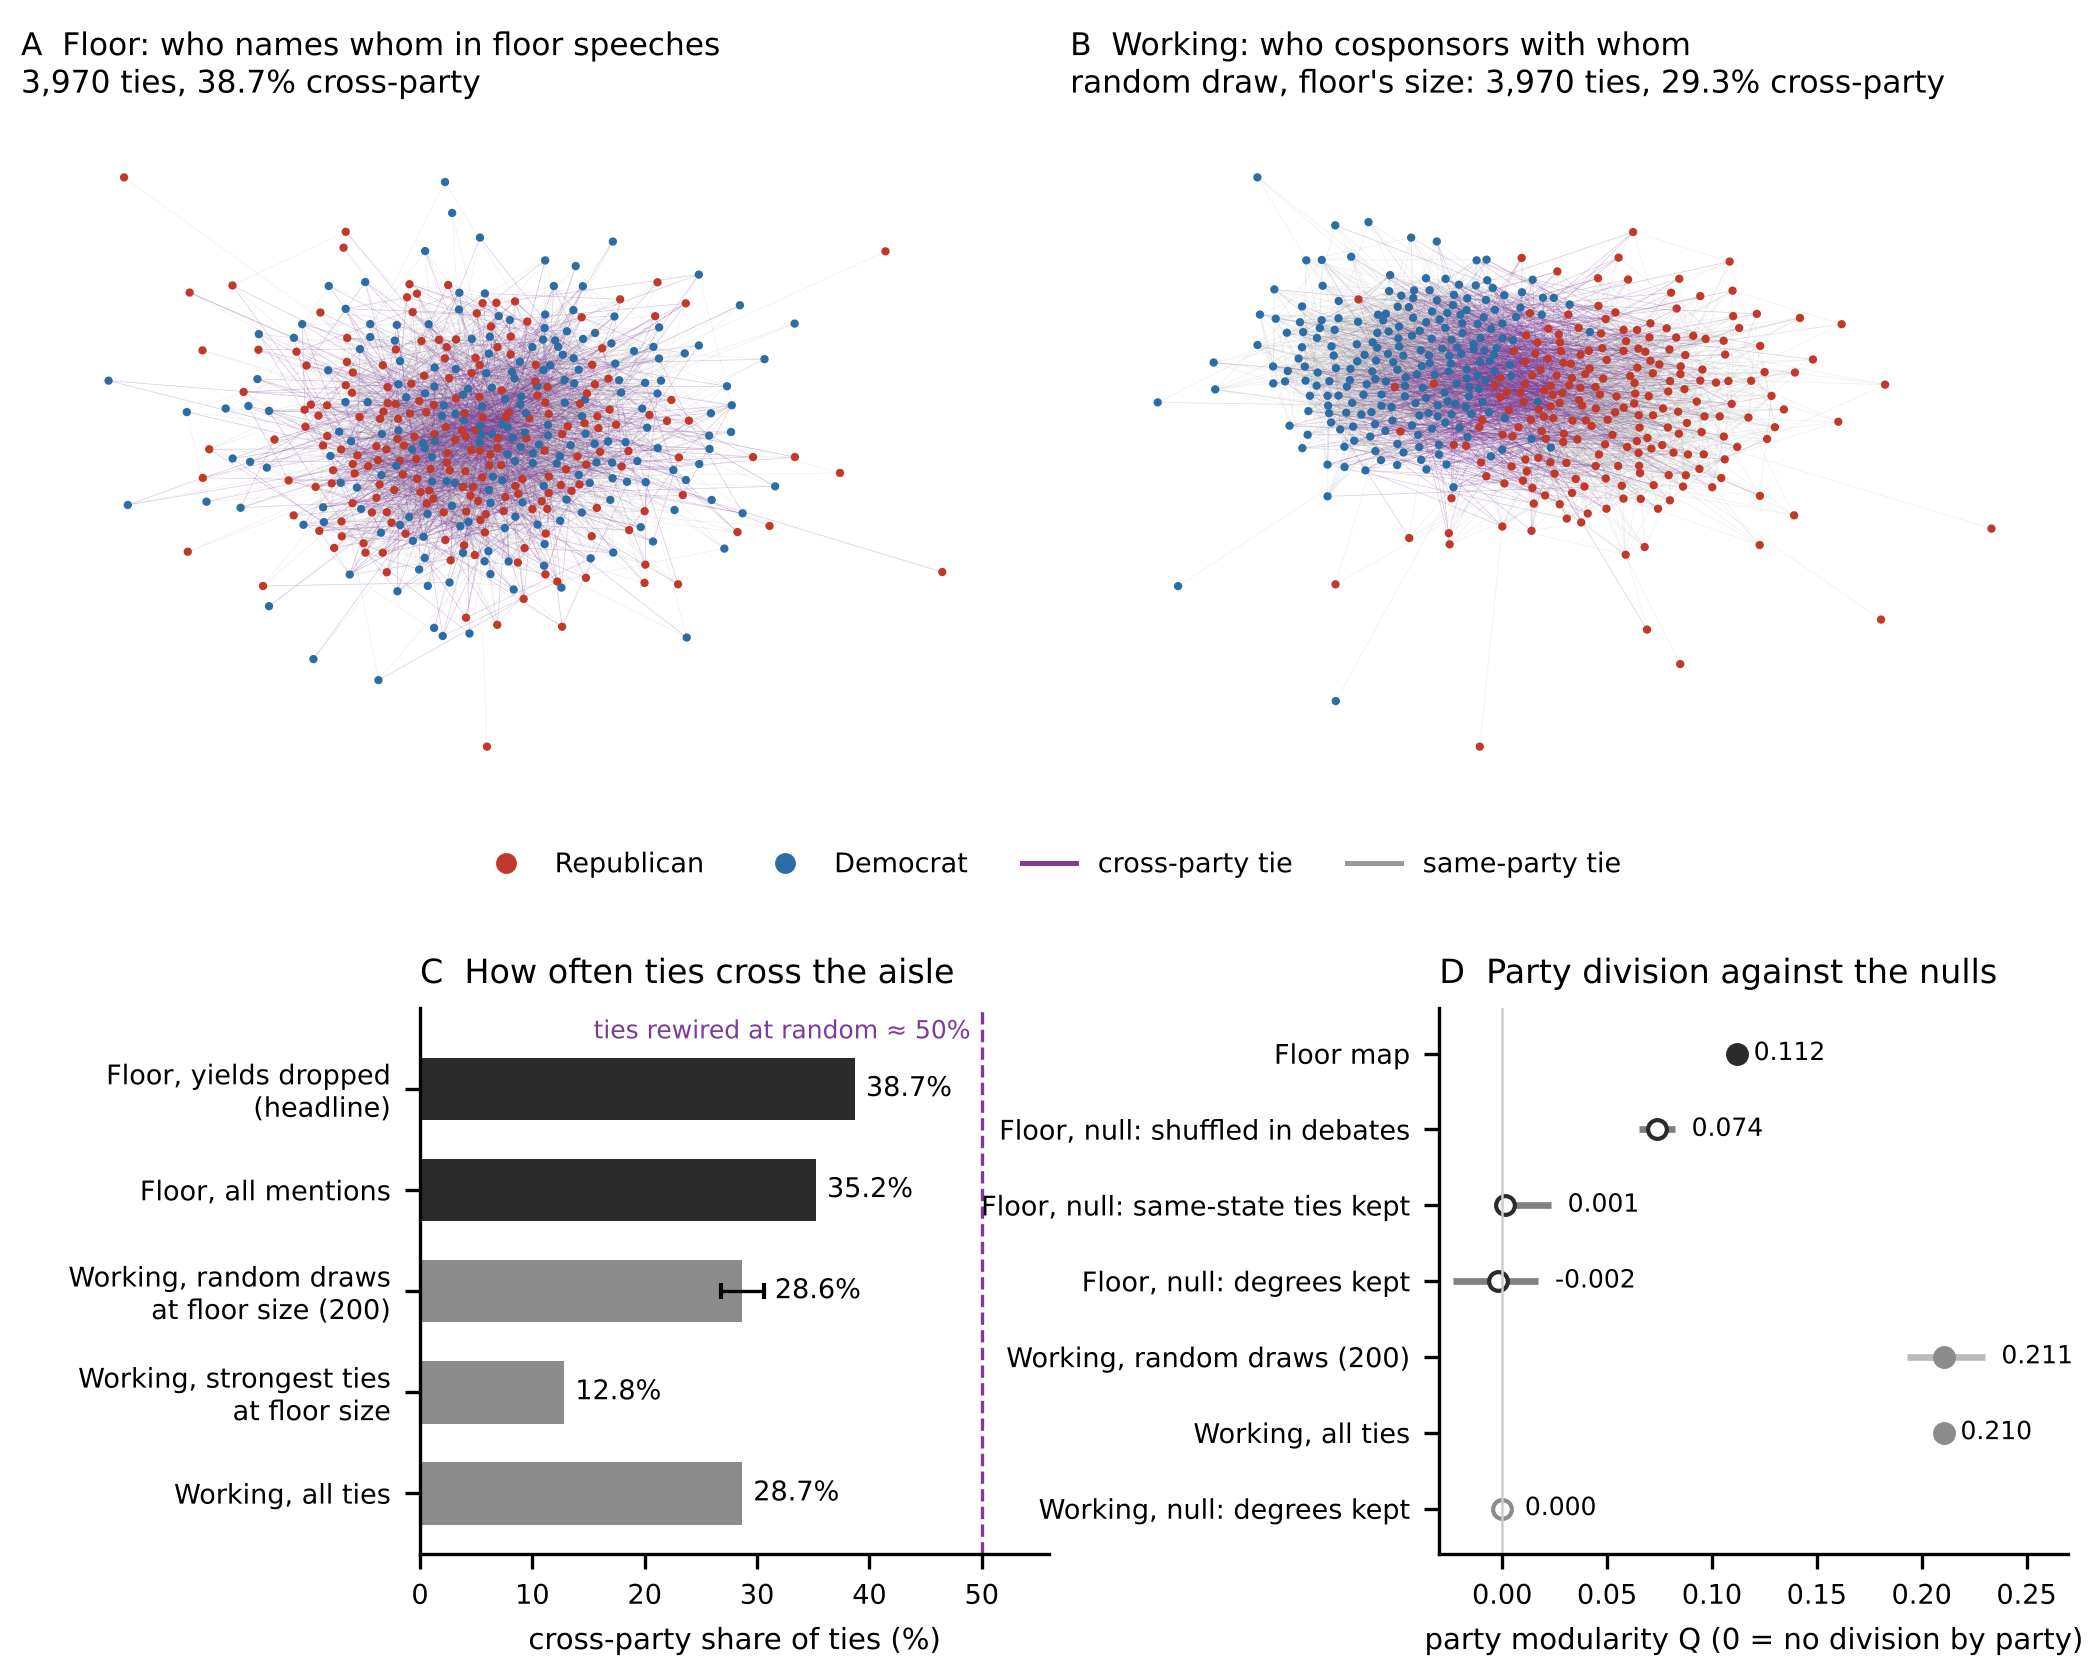
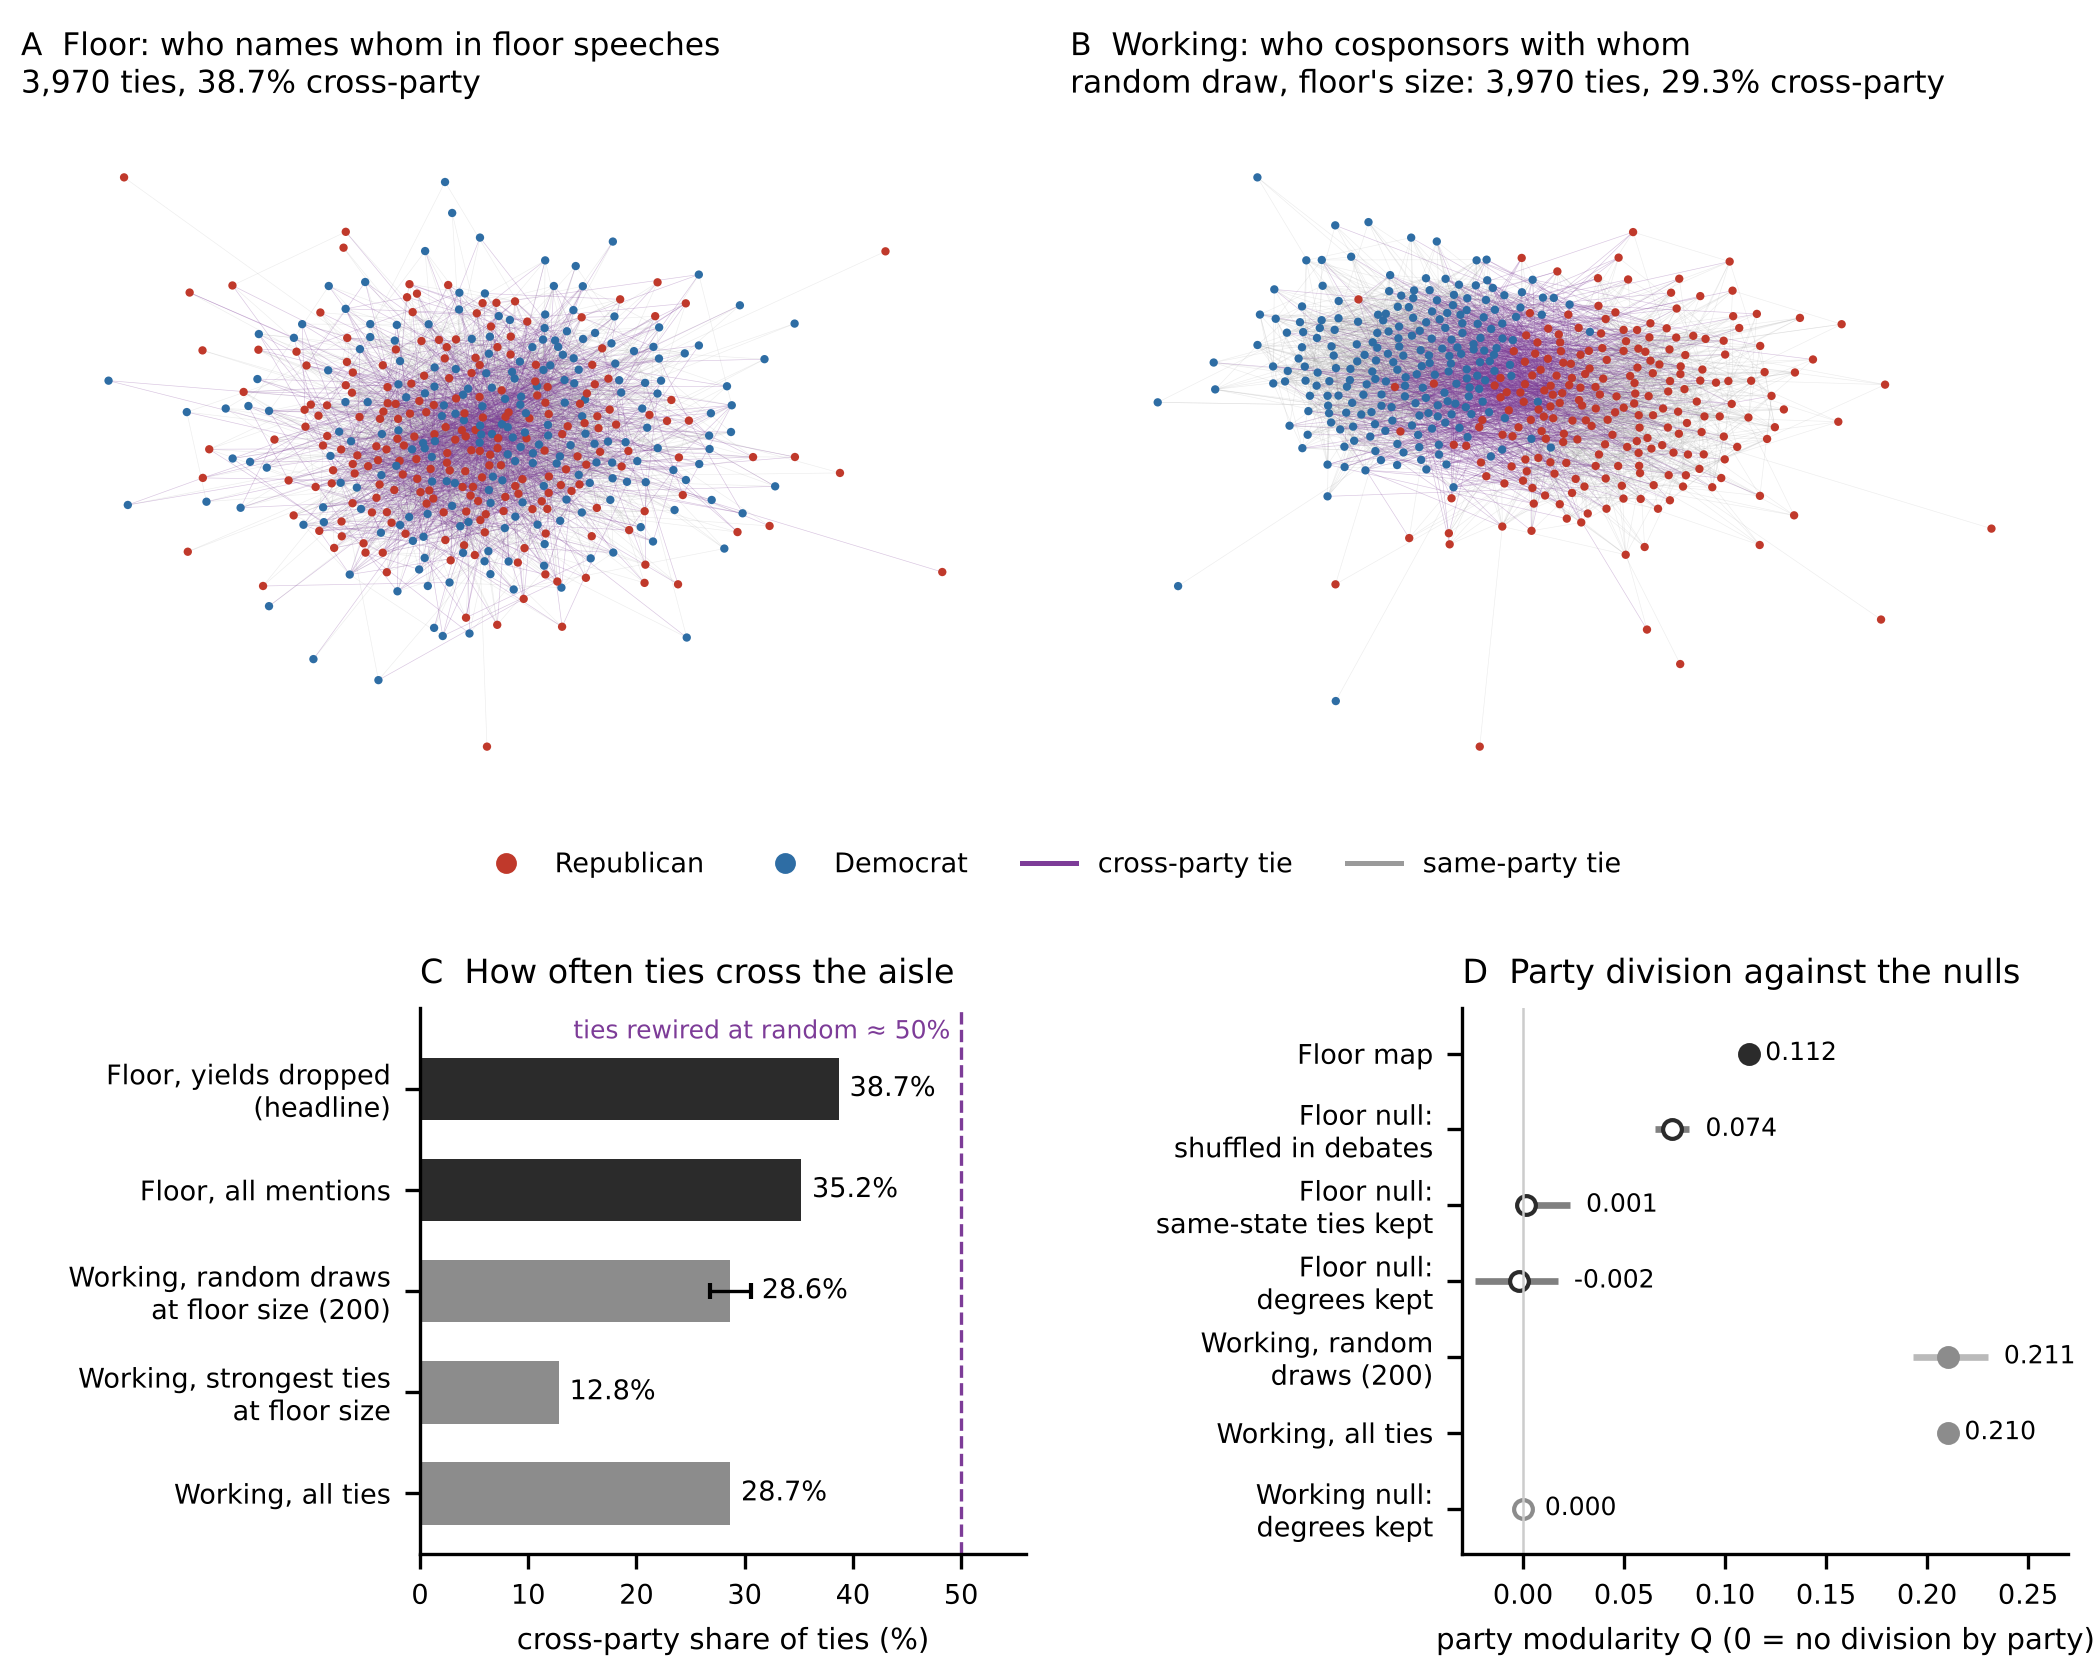
Figure 1: panel D labels on two lines and wider gap, so they no longer run into panel C; overlap now checked before saving
Claude-Session: https://claude.ai/code/session_01QZUPReiHaDtRyvfznUnoDt

diff --git a/project/Martin/m7_figure1.py b/project/Martin/m7_figure1.py
@@ -43,7 +43,7 @@ assert int(T.loc[head, "ties"]) == floor.number_of_edges(), "m3_table.csv is not
 
 fig = plt.figure(figsize=(7.0, 5.6))
 top = fig.add_gridspec(1, 2, left=0.01, right=0.99, top=0.93, bottom=0.52, wspace=0.04)
-bot = fig.add_gridspec(1, 2, left=0.20, right=0.985, top=0.40, bottom=0.075, wspace=0.62)
+bot = fig.add_gridspec(1, 2, left=0.20, right=0.985, top=0.40, bottom=0.075, wspace=0.72)
 
 def network(ax, G, title, note=""):
     pos = nx.spring_layout(G, seed=SEED, k=0.12, iterations=200)
@@ -91,12 +91,12 @@ sn = SN.loc["Floor: yields dropped (headline)"]
 q = D["party Q"]
 items = [  # label, value, (low, high) or None, filled?, colour
     ("Floor map", T.loc[head, "party Q"], None, True, FLOOR),
-    ("Floor, null: shuffled in debates", deb["null mean"], (deb["null min"], deb["null max"]), False, FLOOR),
-    ("Floor, null: same-state ties kept", sn["state null Q mean"], (sn["state null Q mean"], sn["state null Q max"]), False, FLOOR),
-    ("Floor, null: degrees kept", degf["null mean"], (degf["null min"], degf["null max"]), False, FLOOR),
-    ("Working, random draws (200)", q.mean(), (q.min(), q.max()), True, WORK),
+    ("Floor null:\nshuffled in debates", deb["null mean"], (deb["null min"], deb["null max"]), False, FLOOR),
+    ("Floor null:\nsame-state ties kept", sn["state null Q mean"], (sn["state null Q mean"], sn["state null Q max"]), False, FLOOR),
+    ("Floor null:\ndegrees kept", degf["null mean"], (degf["null min"], degf["null max"]), False, FLOOR),
+    ("Working, random\ndraws (200)", q.mean(), (q.min(), q.max()), True, WORK),
     ("Working, all ties", T.loc["Working: all ties", "party Q"], None, True, WORK),
-    ("Working, null: degrees kept", T.loc["Working: all ties", "null Q mean"], (T.loc["Working: all ties", "null Q mean"], T.loc["Working: all ties", "null Q max"]), False, WORK)]
+    ("Working null:\ndegrees kept", T.loc["Working: all ties", "null Q mean"], (T.loc["Working: all ties", "null Q mean"], T.loc["Working: all ties", "null Q max"]), False, WORK)]
 y = np.arange(len(items))[::-1]
 for yi, (lab, v, r, filled, col) in zip(y, items):
     if r:
@@ -109,5 +109,11 @@ ax.set_xlabel("party modularity Q (0 = no division by party)")
 ax.set_title("D  Party division against the nulls", loc="left")
 ax.spines[["top", "right"]].set_visible(False)
 
+# no text of panel D may reach into panel C (labels, value labels): checked on the drawn figure
+fig.canvas.draw(); rend = fig.canvas.get_renderer()
+axC, axD = fig.axes[-2], fig.axes[-1]
+c_right = max([axC.get_window_extent(rend).x1] + [t.get_window_extent(rend).x1 for t in axC.texts])
+d_left = min(t.get_window_extent(rend).x0 for t in axD.get_yticklabels())
+assert d_left > c_right + 4, f"panel D labels overlap panel C ({d_left:.0f} <= {c_right:.0f} px)"
 fig.savefig("Martin/figures/figure1.png", dpi=300); fig.savefig("Martin/figures/figure1.pdf")
 print("written Martin/figures/figure1.png and .pdf")
